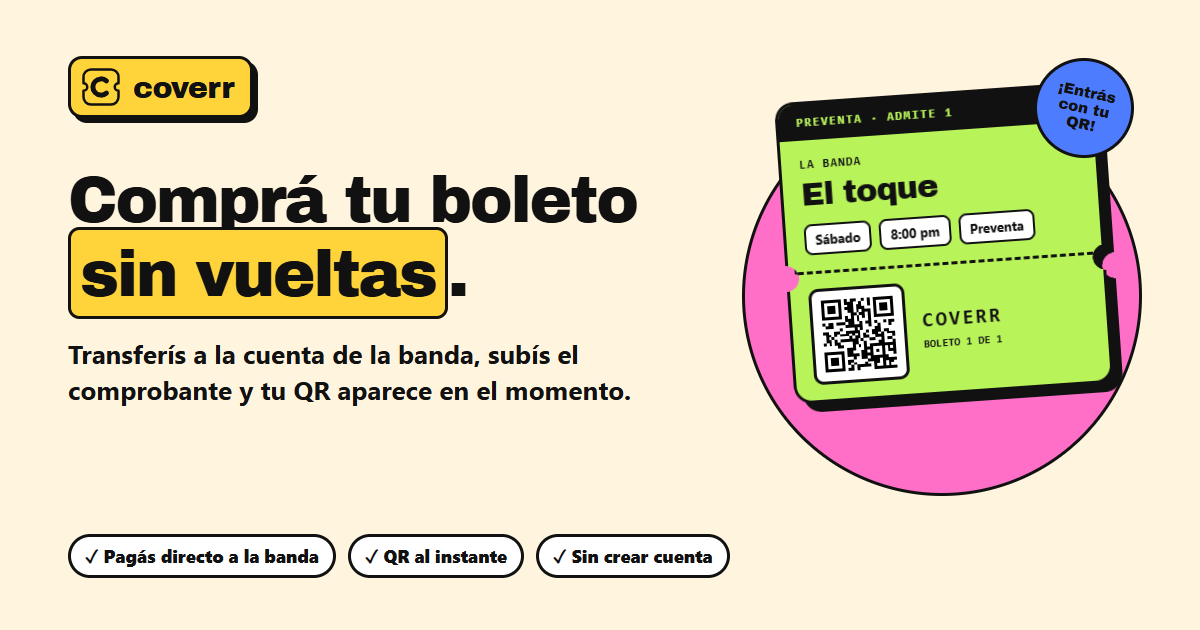
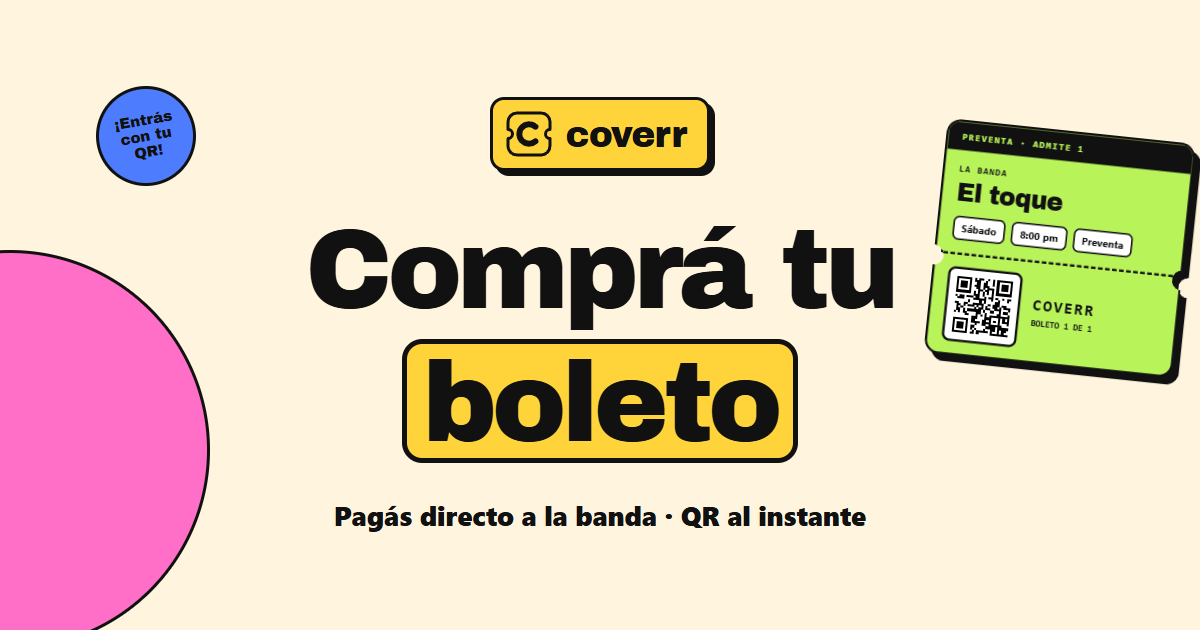
Redraw the event link image around its middle square
WhatsApp on a computer shows a link's image as a small square cut from the
centre, which on the old card was half a headline. The event card now puts
the mark and "Comprá tu boleto" in the middle 630px, with the disc and the
ticket only on the sides the large card adds. The landing card is unchanged.
The image address carries a version so apps holding the old one fetch this.

diff --git a/src/views/layout.tsx b/src/views/layout.tsx
@@ -14,15 +14,19 @@ import { ErrorReporter } from "./error-reporter";
  * pitches Coverr to bands and would read as somebody else's ad here.
  *
  * Built from the page's own URL so it is absolute on whatever origin served it.
+ * The version in the query is bumped whenever the image is redrawn: apps
+ * cache a preview image by its address, so a new picture needs a new one.
  */
+const SHARE_CARD_PATH = "/og-event.png?v=2";
+
 const ShareCard: FC<{ pageUrl: string }> = ({ pageUrl }) => (
   <>
-    <meta property="og:image" content={new URL("/og-event.png", pageUrl).toString()} />
+    <meta property="og:image" content={new URL(SHARE_CARD_PATH, pageUrl).toString()} />
     <meta property="og:image:width" content="1200" />
     <meta property="og:image:height" content="630" />
     <meta
       property="og:image:alt"
-      content="Coverr: comprá tu boleto pagando directo a la banda y recibí tu QR al instante."
+      content="Coverr: comprá tu boleto. Pagás directo a la banda y tu QR llega al instante."
     />
   </>
 );

diff --git a/DESIGN.md b/DESIGN.md
@@ -183,7 +183,7 @@ Things that can be pressed show it: a button lifts a couple of pixels on hover a
 ## The mark
 A ticket stub, notched on both sides, whose right-hand notch opens a C: yellow `#FFD43B`, a heavy black outline, a black C — a sticker. Its colours are fixed rather than themed, so it looks the same on both surfaces. It lives as inline SVG in `src/views/brand.tsx` (`Monogram`, `Wordmark`), so it costs no request; the wordmark pairs it with "coverr" set in Archivo Black as real text.
 
-Every brand image is generated from it by `npm run brand` (`scripts/brand.mjs`): the SVG and 32px favicons, the 180px Apple touch icon, the 192 and 512 PWA icons plus a maskable 512 for the scanner's manifest, and two 1200×630 share cards: `og.png` for the landing page, pitched to bands, and `og-event.png` for event links, written for the buyer who opens them. Never draw them by hand; change the mark in both files and regenerate.
+Every brand image is generated from it by `npm run brand` (`scripts/brand.mjs`): the SVG and 32px favicons, the 180px Apple touch icon, the 192 and 512 PWA icons plus a maskable 512 for the scanner's manifest, and two 1200×630 share cards: `og.png` for the landing page, pitched to bands, and `og-event.png` for event links, written for the buyer who opens them. The event card is composed around its middle 630px square, because WhatsApp on a computer shows a small square cut from the centre: the mark and "Comprá tu boleto" sit there, and the sides only decorate. When it is redrawn, bump the `?v=` on its address in `src/views/layout.tsx`, since apps cache preview images by address. Never draw them by hand; change the mark in both files and regenerate.
 
 ## Components
 Buttons, inputs and cards are defined in the front matter. Three states carry every message in the product, as solid stickers with black ink:
